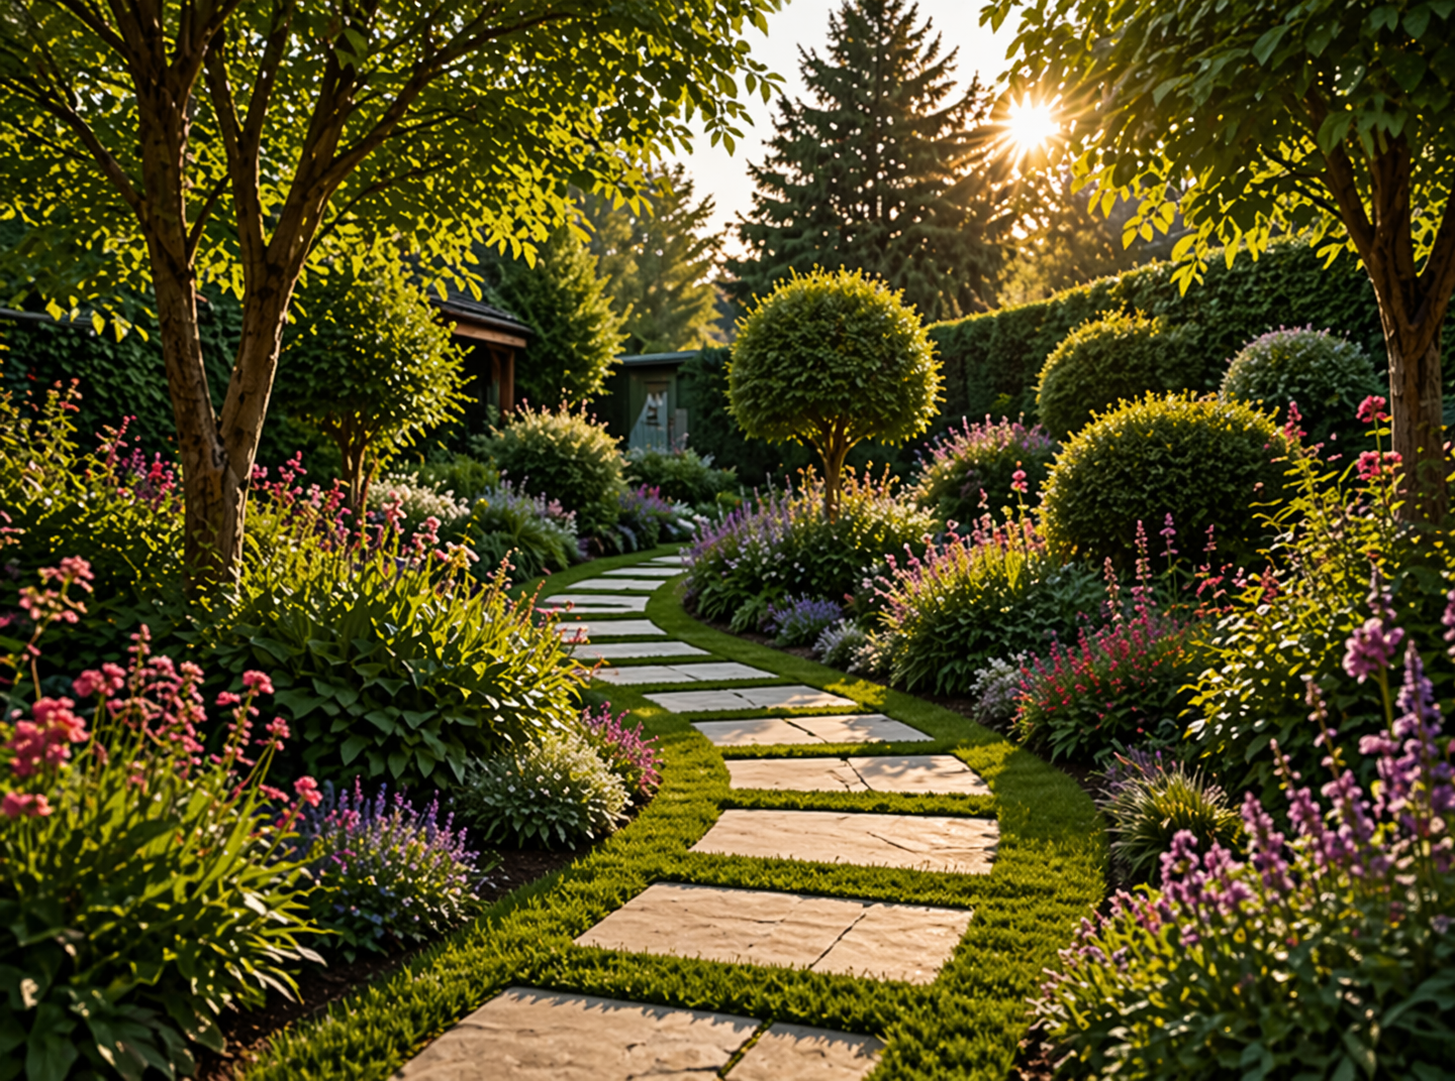
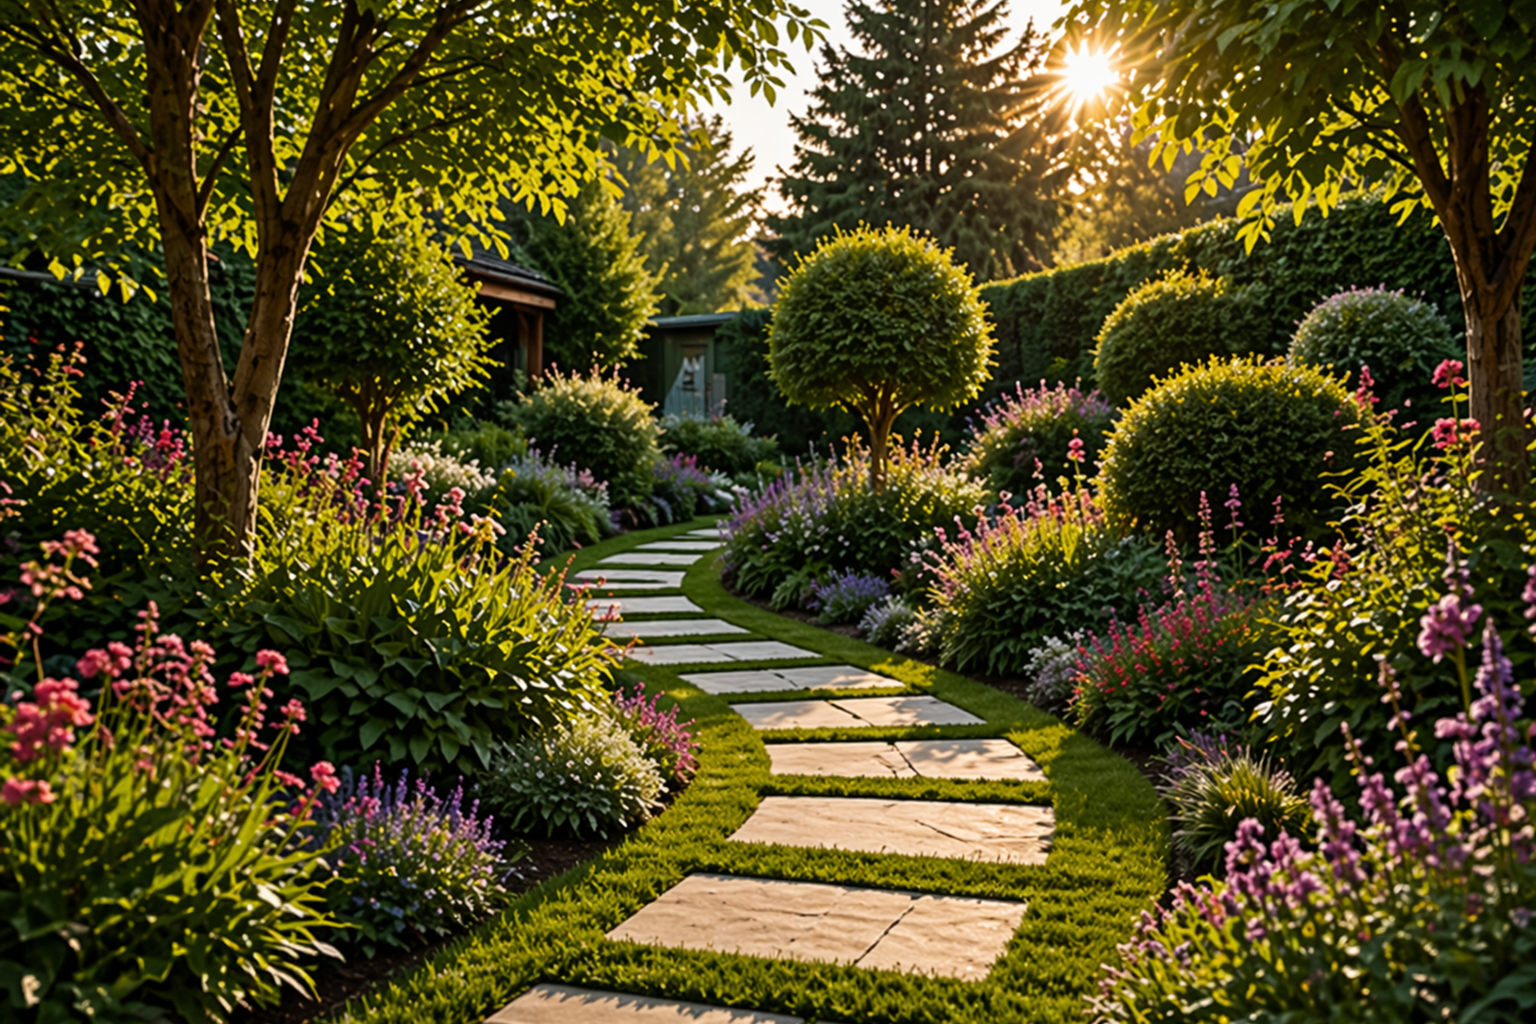
envoie version fonctionnelle a ce jour

diff --git a/src/components/Carousel/Carousel.jsx b/src/components/Carousel/Carousel.jsx
@@ -11,27 +11,27 @@ const realisations = [
     {
         id: 1,
         image: real_01,
-        alt: "",
+        alt: "Réalisation d'aménagement de jardin",
     },
     {
         id: 2,
         image: real_02,
-        alt: "",
+        alt: "Réalisation d'aménagement de jardin",
     },
     {
         id: 3,
         image: real_03,
-        alt: "",
+        alt: "Réalisation d'aménagement de jardin",
     },
     {
         id: 4,
         image: real_04,
-        alt: "",
+        alt: "Réalisation d'aménagement de jardin",
     },
     {
         id: 5,
         image: real_05,
-        alt: "",
+        alt: "Réalisation d'aménagement de jardin",
     }
 ]
 
@@ -41,41 +41,50 @@ export default function Carousel() {
 
     const [currentIndex, setCurrentIndex] = useState(0);
 
-
     const getVisibleImages = () => {
-            const previousIndex =
-            currentIndex === 0 ? realisations.length - 1 : currentIndex - 1;
 
-            const nextIndex =
-            currentIndex === realisations.length - 1 ? 0 : currentIndex + 1;
-            
-            return [
-            { ...realisations[previousIndex], className: "side-image", index: previousIndex },
-            { ...realisations[currentIndex], className: "center-image", index: currentIndex  },
-            { ...realisations[nextIndex], className: "side-image", index: nextIndex  },
-            ];
-            };
+        const previousIndex =
+        currentIndex === 0 ? realisations.length - 1 : currentIndex - 1;
+
+        const nextIndex =
+        currentIndex === realisations.length - 1 ? 0 : currentIndex + 1;
+
+        return [
+        { ...realisations[previousIndex],
+            className: "side-image",
+            index: previousIndex
+        },
+        { ...realisations[currentIndex],
+            className: "center-image",
+            index: currentIndex
+        },
+        { ...realisations[nextIndex],
+            className: "side-image",
+            index: nextIndex
+        },
+        ];
+    };
 
 
  return (
    
             
+     
 
-        <div className="realisations-carousel d-flex align-items-center justify-content-center gap-3">
-
-            <div className="carousel-images d-flex align-items-center justify-content-center gap-4">
-                {getVisibleImages().map((realisation, index) => (
-                <div 
-                    className={`carousel-image ${realisation.className}`} 
-                    key={realisation.id}
-                    onClick={() => setCurrentIndex(realisation.index)}>
-                    <img src={realisation.image} alt={realisation.alt} />
-                </div>
-                ))}
-            </div>
-
- 
-           
+        <div className="realisations-carousel d-flex justify-content-center">
+                    <div className="carousel-container d-flex align-items-center justify-content-center gap-1">
+                      
+                        {/* Je cree mon tableau des images à afficher dans l'ordre que je veux */}
+                        {getVisibleImages().map((realisation) => (
+                        <div
+                            className={`carousel-image ${realisation.className}`}
+                            key={realisation.id}
+                            onClick={() => setCurrentIndex(realisation.index)}>
+                            <img src={realisation.image} alt={realisation.alt} />
+                        </div>
+                        ))}
+            
+                    </div>
         </div>
   );
 

diff --git a/src/components/Accueil/ClientCard.css b/src/components/Accueil/ClientCard.css
@@ -1,4 +1,6 @@
-
+.clients-section-container {
+  width: 100%
+}
 
 /* Carte client */
 
@@ -8,7 +10,7 @@
   transition: transform 0.3s ease;
   box-shadow: 0 4px 10px rgba(0,0,0,0.1);
   min-width: 250px;
-  /* max-width: 300px; */
+  /* max-width: 400px; */
 }
 
 .client-card:hover {
@@ -28,6 +30,17 @@
 }
 }
 
+/* barre sous le titre */
+.card-divider {
+  content: "";
+  display: block;
+  width: 40px;
+  height: 4px;
+  margin-bottom: 20px;
+  border-radius: 2px;
+}
+
+/* Couleurs selon carte */
 .client-card.couleurParticuliers .card-title {
   color: var(--color-blue);
 }
@@ -50,20 +63,11 @@
 }
 
 
-/* barre sous le titre */
-.card-divider {
-  content: "";
-  display: block;
-  width: 40px;
-  height: 4px;
-  margin-bottom: 20px;
-  border-radius: 2px;
-}
 
 /* image */
 .client-image img {
   width: 100%;
-  aspect-ratio: 1 / 1;
+  /* aspect-ratio: 1 / 1; */
   object-fit: cover;
   border-radius: 20px;
 }

diff --git a/src/components/Carousel/Carousel.css b/src/components/Carousel/Carousel.css
@@ -1,37 +1,36 @@
 .realisations-carousel {
-  width: 100%;
-}
+    width: 100%;
+    /* overflow: hidden; */
+  }
 
-.carousel-images {
-  width: 100%;
-  max-width: 900px;
-}
 
 .carousel-image {
   border-radius: 20px;
   overflow: hidden;
-  transition: transform 0.3s ease, opacity 0.3s ease;
+  transition: 
+    transform 0.4s ease, 
+    opacity 0.4s ease;
 }
 
 .carousel-image img {
-  width: 100%;
-  height: 220px;
+  width: 600px;
+  height: 100%;
   object-fit: cover;
-  display: block;
 }
 
+
 .side-image {
-  width: 25%;
   opacity: 0.65;
   transform: scale(0.85);
+  flex-shrink: 0;
   cursor: pointer;
 }
 
 .center-image {
-  width: 40%;
   opacity: 1;
   transform: scale(1);
   cursor: default;
+  flex-shrink: 0;
 }
 
 

diff --git a/src/components/Accueil/Clients.jsx b/src/components/Accueil/Clients.jsx
@@ -31,14 +31,15 @@ export default function Clients() {
 
 
   return (
-    <section className="pt-4" id="clients">
+    <section className="pt-4 d-flex justify-content-center" id="clients">
 
-      <h2>A qui s'adresse nos services ?</h2>
-     
-        <div className="card-container row justify-content-center">
-          {clients.map((client) =>  (
-            <ClientCard key={(client.id)} {...client}/>
-          ))}
+        <div className="clients-section-container">
+          <h2>A qui s'adresse nos services ?</h2>
+          <div className="card-container row justify-content-center gap-1">
+            {clients.map((client) =>  (
+              <ClientCard key={(client.id)} {...client}/>
+            ))}
+          </div>
         </div>
       
     </section>

diff --git a/src/components/Accueil/Realisations.jsx b/src/components/Accueil/Realisations.jsx
@@ -3,13 +3,10 @@ import Carousel from "../Carousel/Carousel"
 export default function Realisations() {
   return (
     
-      <section className="realisations-section py-5">
-        <div className="container text-center">
-            <h2>Nos dernières réalisations</h2>
-            <Carousel/>
-                        
-        </div>
-    </section>
+      <section className="py-4" id="realisations">
+              <h2>Nos dernières réalisations</h2>
+              <Carousel/>
+      </section>
 
 
   )

diff --git a/src/index.css b/src/index.css
@@ -81,3 +81,10 @@ h2 {
 }
 
 
+#clients {
+  width: 100vw;
+  margin-left: 50%;
+  transform: translateX(-50%);
+  overflow: hidden;
+}
+

diff --git a/src/components/Accueil/ClientCard.jsx b/src/components/Accueil/ClientCard.jsx
@@ -2,7 +2,7 @@ import "./ClientCard.css"
 
 export default function ClientCard({ titre, image, texte }) {
   return (
-    <div className="col-12 col-lg-3 mb-4 mx-3 justify-content-center">
+    <div className="col-12 col-lg-3 mb-4 mx-1 justify-content-center">
       <div className={`client-card p-4 h-100 couleur${titre}`}>
 
         <p className="card-title mb-3">{titre}</p>